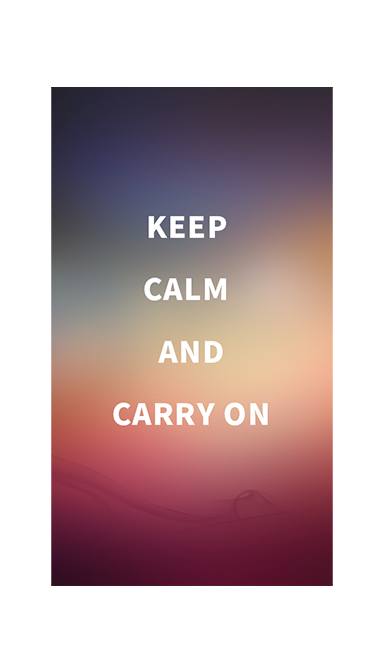
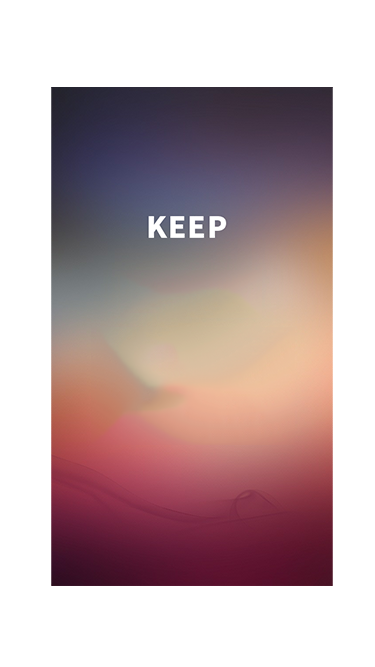
ADD

Changed region(s): [[0.2933, 0.5097, 0.7333, 0.6597], [0.3813, 0.4198, 0.616, 0.4498]]

diff --git a/有趣的鼠标悬停/css/main.css b/有趣的鼠标悬停/css/main.css
@@ -6,78 +6,104 @@
 }
 a{
 	text-decoration: none;
-	color: #fff;
 }
-body{
+.hover-blur{
+	position: absolute;
+	top:0;
+	left:0;
 }
-.iphone7{
-	margin: 0 auto;
+.container{
+	position: relative;
+	width: 375px;
+	height: 667px;
 	background-image: url(../img/iphone7.png);
-	width: 375px;
-	height: 667px;
-}
-.iphone7-inner{
-	text-align:center;
+	background-repeat: no-repeat; 
 	margin: 0 auto;
-	background-image: url(../img/iphone7-inner.png);
-	width: 375px;
-	height: 667px;
 }
-.iphone7-inner:hover {
+.text{
+	position: absolute;
+	top:calc(50% - 50px);
+	left: calc(50% - 100px);
+    width: 200px;
+	height: 100px;
+	line-height: 100px;
+	border-top:3px solid #fff;
+	border-right:1px solid #fff;
+	border-bottom:3px solid #fff;
+	border-left:1px solid #fff;
 	text-align:center;
-	margin: 0 auto;
-	background-image: url(../img/iphone-inner2.png);
-	width: 375px;
-	height: 667px;
-	animation: background-img 2s 1;
+	z-index: 4;
 }
-@keyframes background-img{
-	0%{
-		opacity: .8;
-	}
-	100%{
-		opacity: 1;
-	}
-}
-.iphone7-inner:hover > .welcome{
-	display: block;
-	animation: welcome 3s 1 ;
-}
-@keyframes welcome{
-	0%{
-		opacity: .5;
-	 
-		
-	}
-	100%{
-		opacity: 1;
-	}
-}
-.welcome a {
-	display: none;
-}
-.iphone7-inner:hover > .welcome a{
-	display: inline-block;
-	background-image: -webkit-linear-gradient(left, #147B96, #E6D205 25%, #147B96 50%, #E6D205 75%, #147B96);
-	        -webkit-text-fill-color: transparent;
-	        -webkit-background-clip: text;
-	        -webkit-background-size: 200% 100%;
-	        -webkit-animation: masked-animation 4s infinite linear; 
-}
- @keyframes masked-animation{
-	0%  { background-position: 0 0;
-	    }
-    100% { background-position: -100% 0;
+/*文字流光渐变 */
+@media all and (-webkit-min-device-pixel-ratio:0) and (min-resolution: .001dpcm) {
+     a{
+        background-image: -webkit-linear-gradient(left, #147B96, #E6D205 25%, #147B96 50%, #E6D205 75%, #147B96);
+        -webkit-text-fill-color: transparent;
+        -webkit-background-clip: text;
+        -webkit-background-size: 200% 100%;
+        -webkit-animation: masked-animation 4s infinite linear;
     }
 }
-.welcome{
-	display: none;
-	position: absolute;
-	margin-top:40rem;
-	margin-left:8.5rem;
-	line-height: 6rem;
-	width: 15rem;
-	height: 6rem;
-	font-size: 2.5rem;
-	border: 3px solid #fff;
+@-webkit-keyframes masked-animation {
+    0%  { background-position: 0 0;}
+    100% { background-position: -100% 0;}
+}
+
+/* 图片模糊效果 */
+.hover-blur{
+    transition: filter,0.8s,ease-in;
+}
+.container:hover > .hover-blur{
+    filter: blur(3px);
+    -webkit-filter: blur(3px);
+}
+/* 边框闭合效果 */
+#_border{
+    border: none;
+    position: relative;
+    z-index: 3;
+}
+#_border:before,#_border:after{
+    content:" ";
+    display: block;
+    position: absolute;
+    width: 0;
+    height: 0;
+    border-bottom: 4px solid #F3F4F5;
+    border-top: 4px solid #F3F4F5;
+    border-left: 2px solid #F3F4F5;
+    border-right: 2px solid #F3F4F5;
+    transition-property: width,height,left,top;
+    transition-duration: 0.9s;
+    transition-timing-function: ease-in;
+}
+#_border:before{
+    height: 100%;
+    left: 50%;
+    border-left-color: transparent;
+    border-right-color: transparent;
+    z-index: -4;
+}
+.container:hover > #_border:before{
+    transition-duration: 0.8s;
+    left: 0;
+    width: 100%;
+}
+#_border:after{
+    width: 100%;
+    top: 50%;
+    border-top-color: transparent;
+    border-bottom-color: transparent;
+    z-index: -3;
+}
+.container:hover > #_border:after{
+    height: 100%;
+    top: 0;
+}
+/* 悬停显示 */
+.text{
+	opacity: 0
+}
+.container:hover > .text{
+	opacity: 1;
 }

diff --git a/有趣的鼠标悬停/index.html b/有趣的鼠标悬停/index.html
@@ -6,12 +6,14 @@
 	<link rel="stylesheet" href="css/main.css">
 </head>
 <body>
-<div class="iphone7">
-   <div class="iphone7-inner">
-     <div class="welcome">
-      <a href="#">欢迎加入百度前端学院</a>
-      </div>
-   </div>
+<div class="container">
+    
+     <div class="text" id="_border">
+      
+          <a href="http://ife.baidu.com/">欢迎加入百度前端学院</a>
+      
+     </div>
+     <img src="img/iphone7-inner.png" alt="#" class="hover-blur" alt="keyboard" width="375px" height="667px">
 </div>
 	
 </body>
